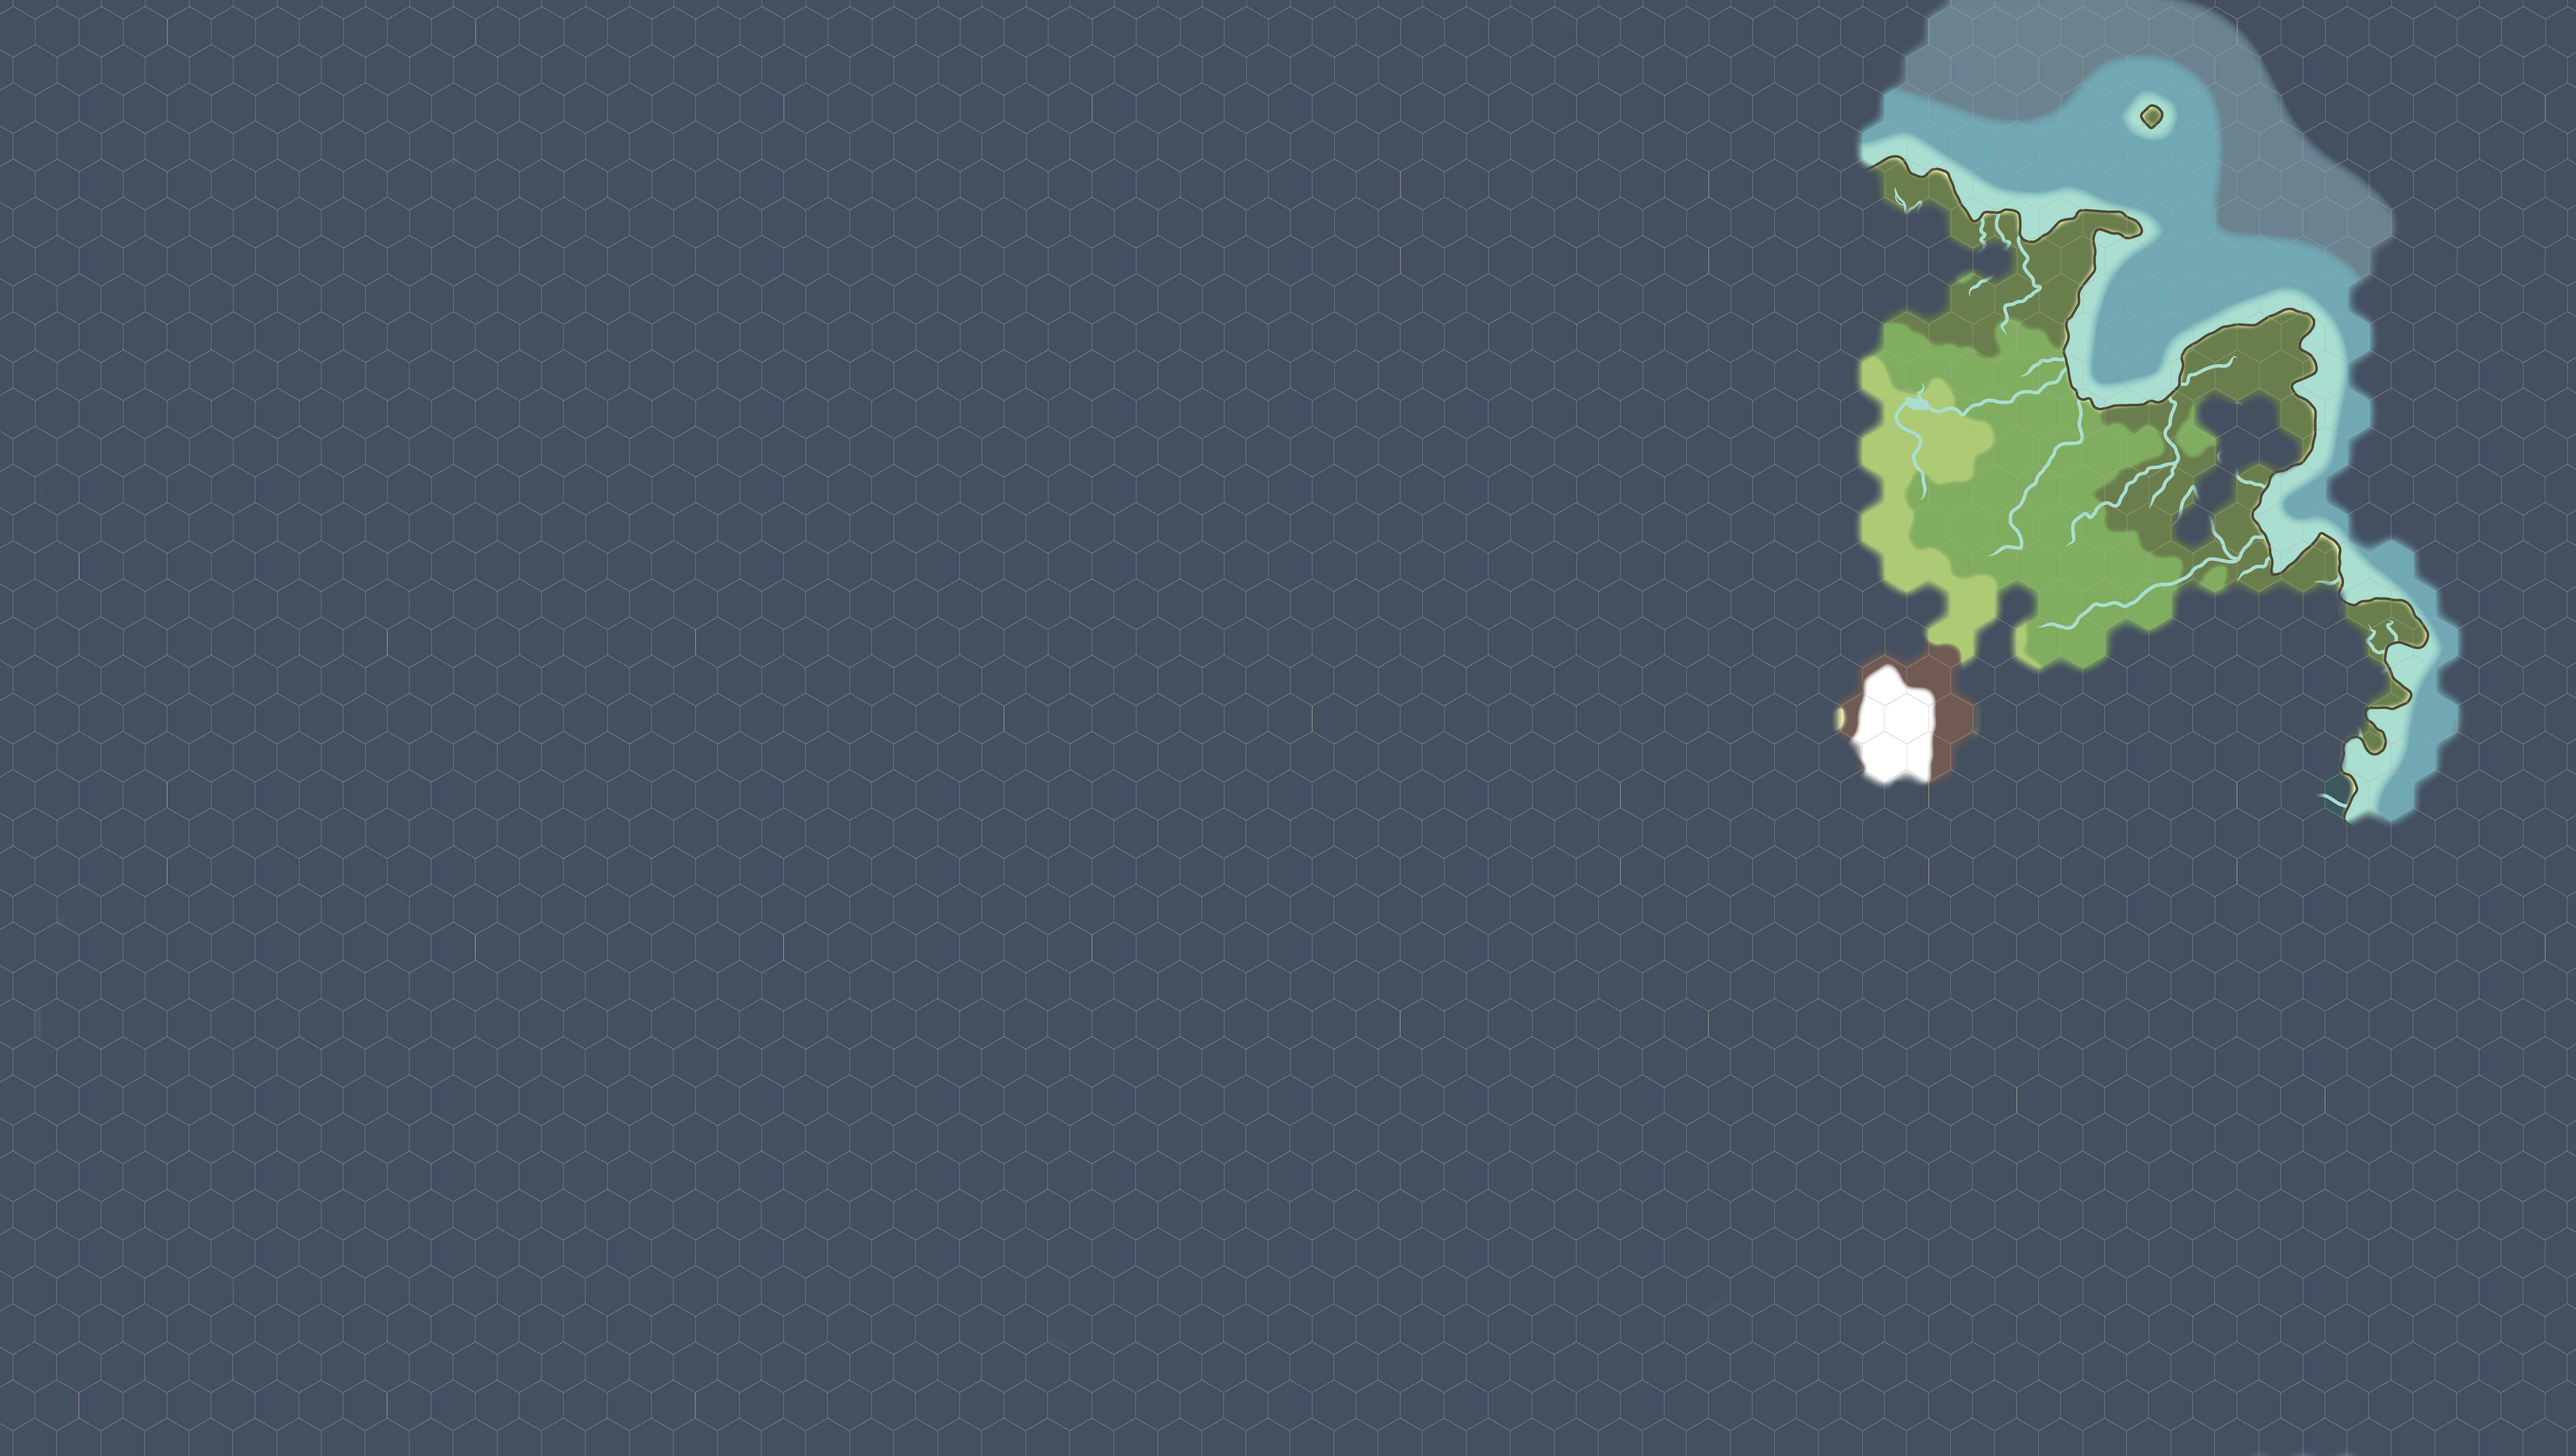
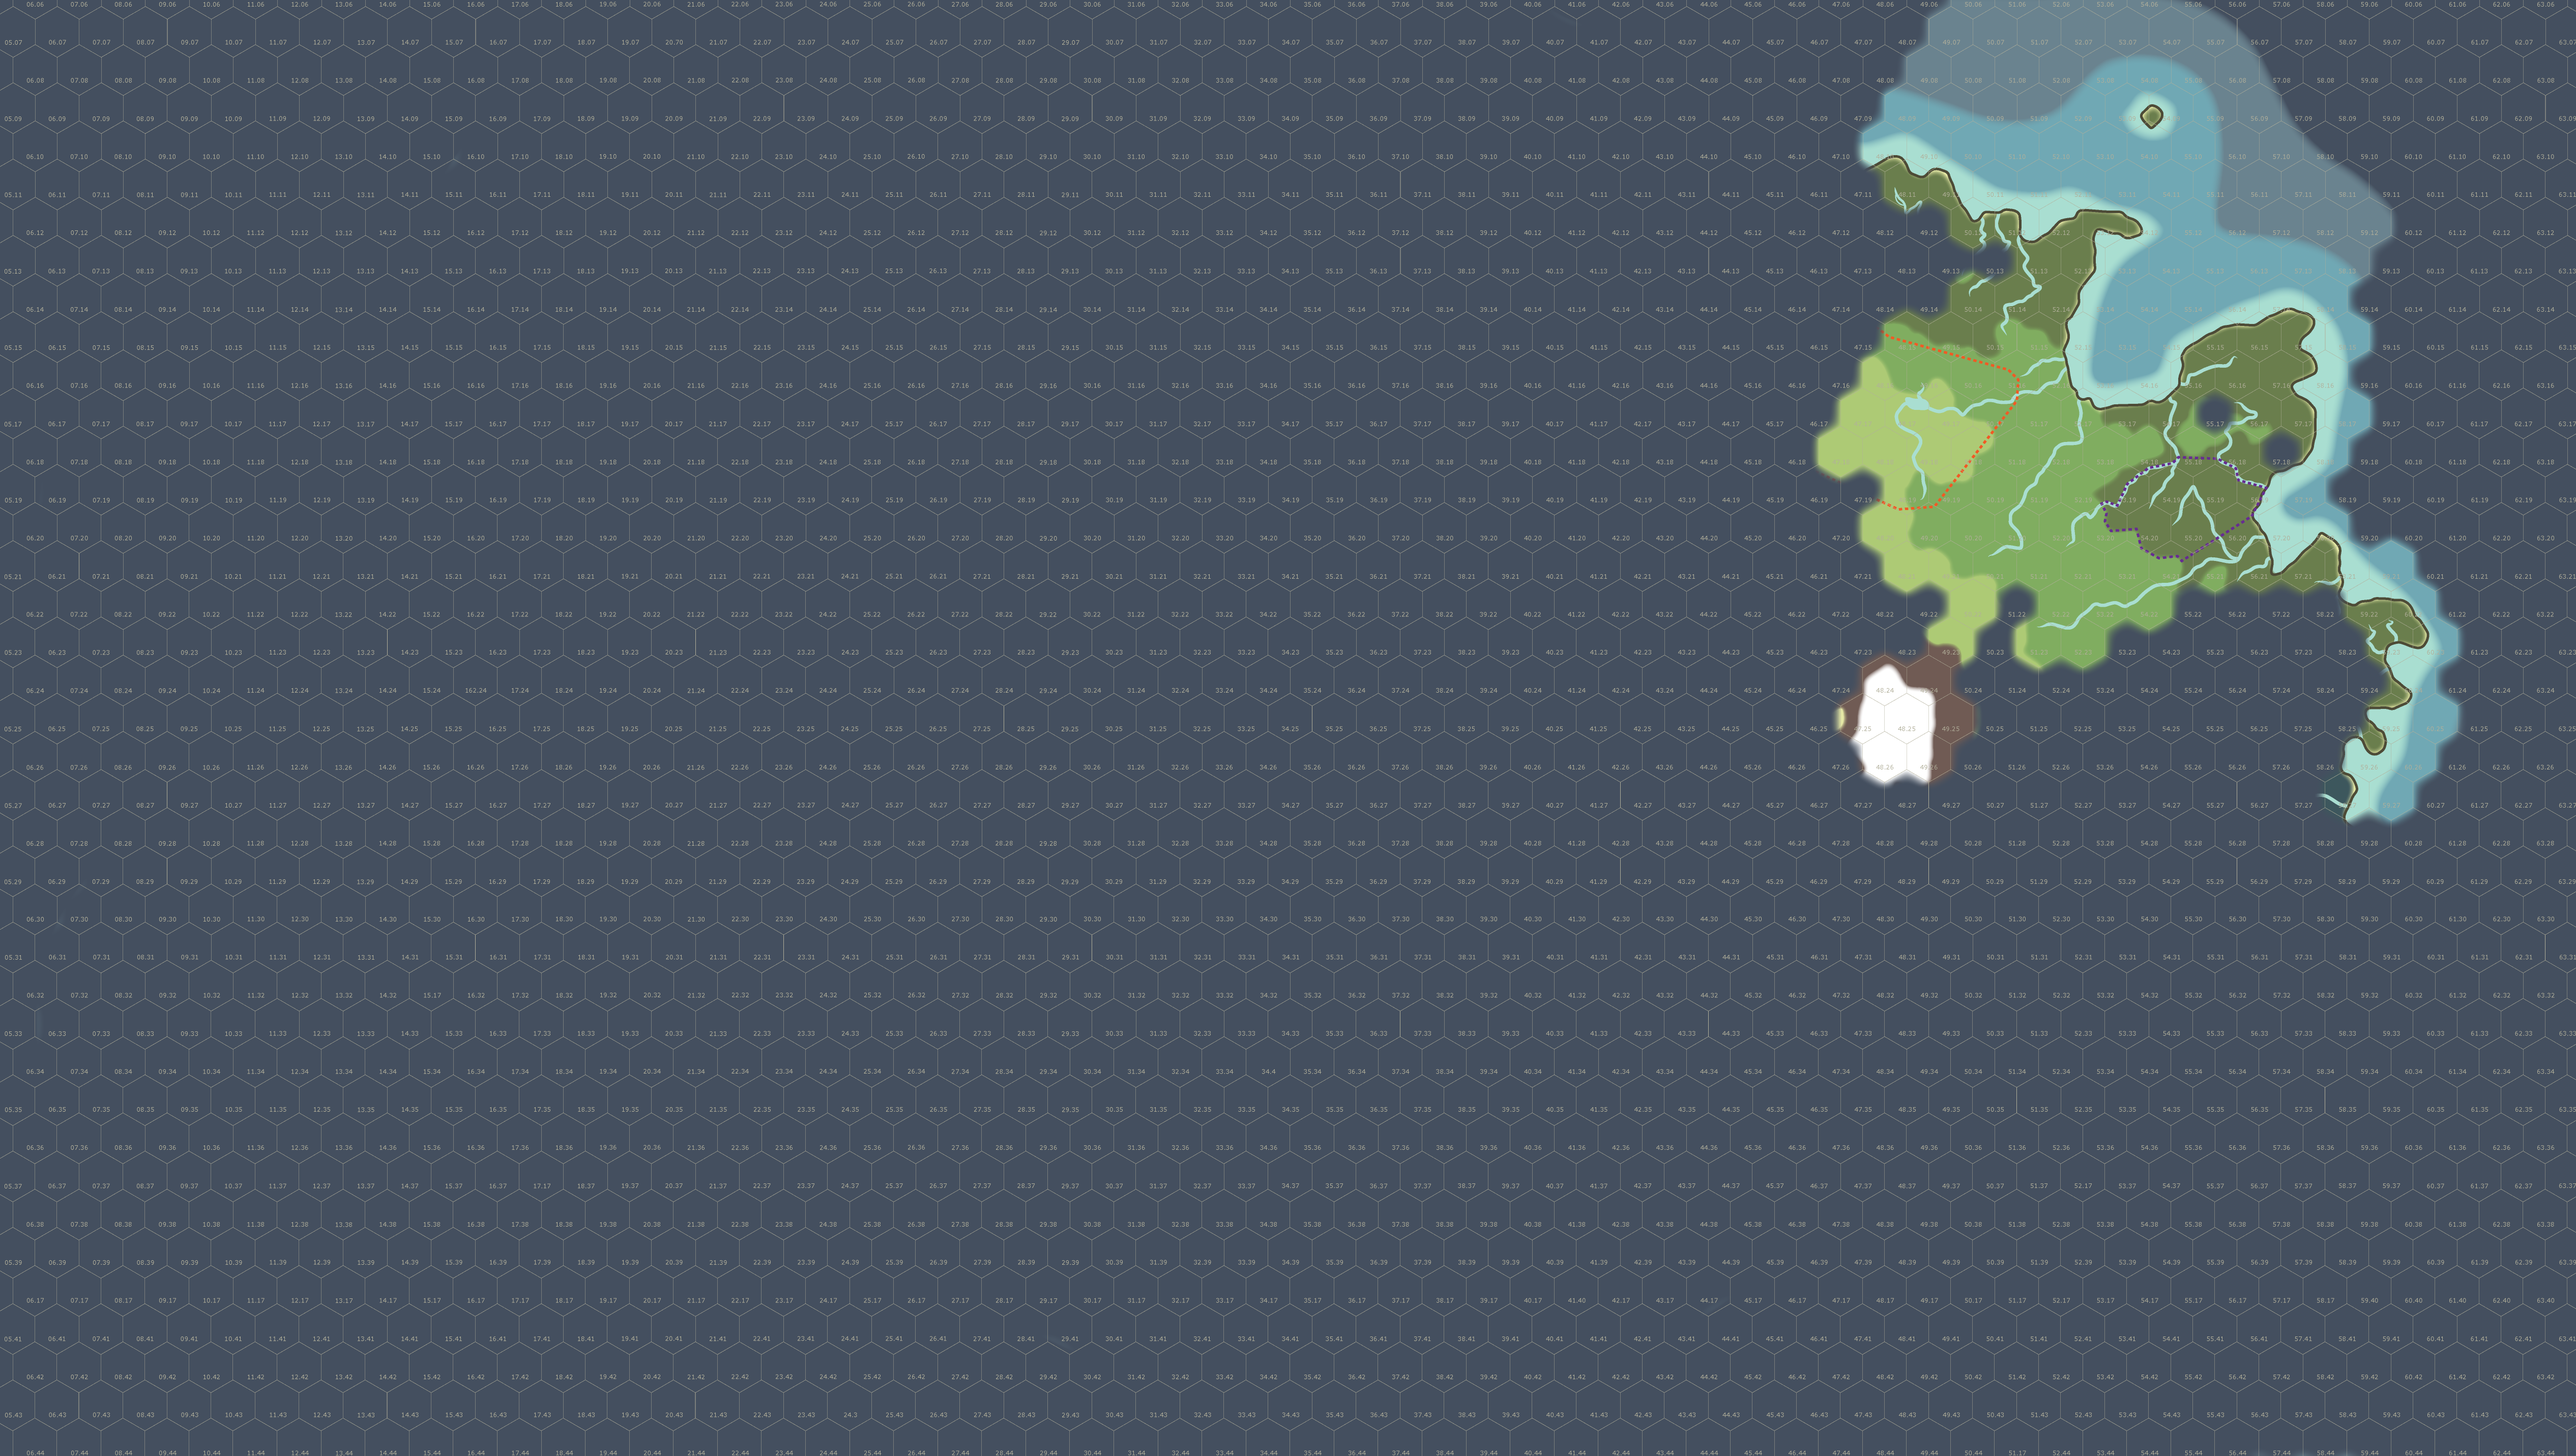
v1.06
Map Images Updates:
- Update ConteinentMap_FogOfWar.png

Continent Map Updates:
- Renamed Stalwart Shield to Irontooth's Camp
- Updated symbology for: Irontooth's Camp
- Updated description for: Skipriver Village, Irontooth's Camp
- Added new classes: one for Stalwart Shield label, one for Dark Forest label
- Added labels: Stalwart Shield, Dark Forest, Aukari Pine
- Added points: Greenreach, Orn, Skydross, Aphydodes

Ruins Map Updates:
- Added test white polygon to indicate ruins that have been or are in the process of being reclaimed. Pushing this to test environment to get feedback from users.  NOTE: current plan is to only use .0 and .5 for lat/long decimals just to keep math easier when having to track the 'corners' of each polygon.

README.md Updates:
- Added v1.06 to version history

diff --git a/continentmap.html b/continentmap.html
@@ -86,6 +86,46 @@
 			border-right-color: transparent;
 		}
 		
+		.darkForestClass {
+			background: none;
+			border: none;
+			box-shadow: none;
+			font-size: 12px;
+			color: purple;
+			font-family: "Copperplate Gothic Light", Palatino, serif;
+			font-style: italics;
+			text-align: center;
+			text-shadow: white 0.1em 0.1em 0.2em;
+		}
+		
+		.leaflet-tooltip-left.darkForestClass::before{
+			border-left-color: transparent;
+		}
+		
+		.leaflet-tooltip-right.darkForestClass::before{
+			border-right-color: transparent;
+		}
+		
+		.stalwartShieldClass {
+			background: none;
+			border: none;
+			box-shadow: none;
+			font-size: 12px;
+			color: red;
+			font-family: "Copperplate Gothic Light", Palatino, serif;
+			font-style: italics;
+			text-align: center;
+			text-shadow: white 0.1em 0.1em 0.2em;
+		}
+		
+		.leaflet-tooltip-left.stalwartShieldClass::before{
+			border-left-color: transparent;
+		}
+		
+		.leaflet-tooltip-right.stalwartShieldClass::before{
+			border-right-color: transparent;
+		}
+		
 	</style>
 	
 	<meta name="viewport" content="width=device-width, initial-scale=1.0, maximum-scale=1.0, user-scalable=no" />
@@ -365,10 +405,27 @@
 	
 	<!-- GRASSLAND -->
 	
+	// Greenreach
+	var greenreach = L.latLng([137.27, 242.38]);
+	L.marker(greenreach, {icon: ruinsIcon}).addTo(map).bindPopup("<b>Greenreach</b></br>"+
+	"<i>Ruins of green stone found near Woodrim Lake.</i>");
+	
 	// Griffin Nest
 	var griffinNest = L.latLng([124.75, 251.22]);
 	L.marker(griffinNest, {icon: caveIcon}).addTo(map).bindPopup("<b>Griffin Nest</b></br>"+
 	"<i>A griffon nest was found by the Menran River.</i>");
+	
+	// Orn
+	var orn = L.latLng([127.20, 257.38]);
+	L.marker(orn, {icon: villageOutlineIcon}).addTo(map).bindPopup("<b>Orn</b></br>"+
+	"<i>Once a farming village of hobgoblins and orcs, reduced to a smoldering ruin by the warforged.</i></br></br>"+
+	"For more information, see <a href='http://brightshore.imboardgames.com/wiki/doku.php?id=brightshore:lorica:orn'>Brightshore Wiki</a>");
+	
+	// Skydross
+	var skydross = L.latLng([115.81, 213.0]);
+	L.marker(skydross, {icon: towerIcon}).addTo(map).bindPopup("<b>Skydross</b></br>"+
+	"<i>A large town of hobgoblins and orcs.</i></br></br>"+
+	"For more information, see <a href='http://brightshore.imboardgames.com/wiki/doku.php?id=brightshore:lorica:skydross'>Brightshore Wiki</a>");
 	
 	
 	<!-- ISLAND -->
@@ -441,6 +498,16 @@
 	
 	<!-- WOODS -->
 	
+	// Aphydodes
+	var aphydodes = L.latLng([159.29, 201.25]);
+	L.marker(aphydodes, {icon: brightshoreIcon}).addTo(map).bindPopup("<b>Aphydodes</b></br>"+
+	"<i>Capital city of the Stalwart Shield.</i></br></br>"+
+	"For more information, see <a href='http://brightshore.imboardgames.com/wiki/doku.php?id=brightshore:lorica:aphydodes'>Brightshore Wiki</a>");
+	
+	// Aukari Pine
+	var aukariPine = L.latLng([143.30, 378.25]);
+	L.marker(aukariPine, {icon: noIcon}).bindTooltip("Aukari Pine", {permanent: true, offset: [0, 0], className: 'landClass'}).openTooltip().addTo(map);
+	
 	// Ava River Ruins
 	var avaRiverRuins = L.latLng([88.75, 307.625]);
 	L.marker(avaRiverRuins, {icon: ruinsOutlineIcon}).addTo(map).bindPopup("<b>Ava River Ruins</b></br>"+
@@ -455,6 +522,10 @@
 	// Covet
 	var covet = L.latLng([160.4, 363.5]);
 	L.marker(covet, {icon: treePineIcon}).addTo(map).bindPopup("<b>The Covet</b>");
+	
+	// Dark Forest
+	var darkForest = L.latLng([92.57, 370.00]);
+	L.marker(darkForest, {icon: noIcon}).bindTooltip("Dark Forest", {permanent: true, offset: [0, 0], className: 'darkForestClass'}).openTooltip().addTo(map);
 	
 	// Diamond Mine
 	var diamondMine = L.latLng([176.64, 291.625]);
@@ -491,6 +562,12 @@
 	L.marker(hellionsMouth, {icon: caveIcon}).addTo(map).bindPopup("<b>Hellion's Mouth</b></br>"+
 	"<i>A cave 2 days southwest of Brightshore. Contained a portal to the Abyss (now sealed).</i></br></br>"+
 	"For more information, see <a href='http://brightshore.imboardgames.com/wiki/doku.php?id=brightshore:lore:wilderness:hellions_mouth'>Brightshore Wiki</a>");
+	
+	// Irontooth's Camp
+	var irontoothCamp = L.latLng([148.97, 250.88]);
+	L.marker(irontoothCamp, {icon: villageOutlineIcon}).addTo(map).bindPopup("<b>Irontooth's Camp</b></br>"+
+	"<i>Formerly the camp of Chief Irontooth. Fell to the warforged, now abandoned.</i></br></br>"+
+	"For more information, see <a href='http://brightshore.imboardgames.com/wiki/doku.php?id=brightshore:npcs:irontooth'>Brightshore Wiki</a>");
 	
 	// Kavonia Ma
 	var kavoniaMa = L.latLng([95.58, 324.875]);
@@ -534,11 +611,12 @@
 	
 	// Skipriver Village
 	var skipriverVillage = L.latLng([46.83, 340.875]);
-	L.marker(skipriverVillage, {icon: villageIcon}).addTo(map).bindPopup("<b>Skipriver Village</b>");
+	L.marker(skipriverVillage, {icon: villageIcon}).addTo(map).bindPopup("<b>Skipriver Village</b></br>"+
+	"<i>A village of nomadic halflings native to Lorica.</i>");
 	
-	// Stalwart Shield Camp
-	var stalwartShieldCamp = L.latLng([148.97, 250.88]);
-	L.marker(stalwartShieldCamp, {icon: villageIcon}).addTo(map).bindPopup("<b>Stalwart Shield Camp</b>");
+	// Stalwart Shield
+	var stalwartShield = L.latLng([109.06, 220.00]);
+	L.marker(stalwartShield, {icon: noIcon}).bindTooltip("Stalwart Shield", {permanent: true, offset: [0, 0], className: 'stalwartShieldClass'}).openTooltip().addTo(map);
 	
 	// Wariroost
 	var wariroost = L.latLng([165.75, 379.19]);

diff --git a/ruinsmap.html b/ruinsmap.html
@@ -168,6 +168,20 @@
 	var p10 = L.latLng([-36.69, 105.00]);
 	L.marker(p10, {icon: blueIcon}).addTo(map).bindPopup("<b>Underground Pit Fighting Arena</b>")
 	
+	var s10_reclaimed = L.polygon([
+		[-28.0, 145.5],
+		[-28.0, 164.0],
+		[-47.0, 164.0],
+		[-47.0, 145.5]
+		], {
+		color: 'white'
+		}
+	).addTo(map).bindPopup("<b>Ruins:</b> S10</br>"+
+	"<i>This ruins section has been sold to Brightshore.</i></br></br>"+
+	"<b>Ruins Status:</b> Sold to Brightshore</br>"+
+	"<b>Ruins Reclaimed By:</b> Hall of Hunters</br>"+
+	"<b>Ruins Sold On:</b> Oncemas, Year 24")
+	
 	var s10_1 = L.latLng([-31.08, 151.125]);
 	L.marker(s10_1, {icon: blueIcon}).addTo(map).bindPopup("<b>Sunken Temple of the Sphinx</b></br>"+
 	"<i>A cave in the western bank of the Olteus River across from the Market District leads to ancient catacombs containing a sphinx and many undead.</i>")

diff --git a/README.md b/README.md
@@ -10,6 +10,8 @@ We are still working on the best way to mature this project, including dedicated
 
 ## Version History
 
+v1.06: 12-01-2019
+
 v1.05: 11-09-2019
 
 v1.04: 10-23-2019
